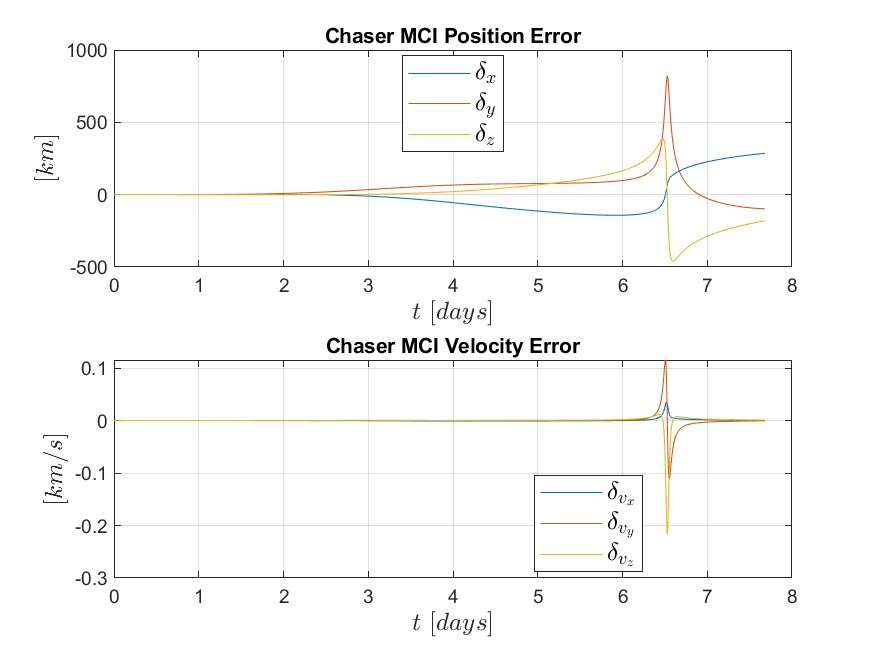
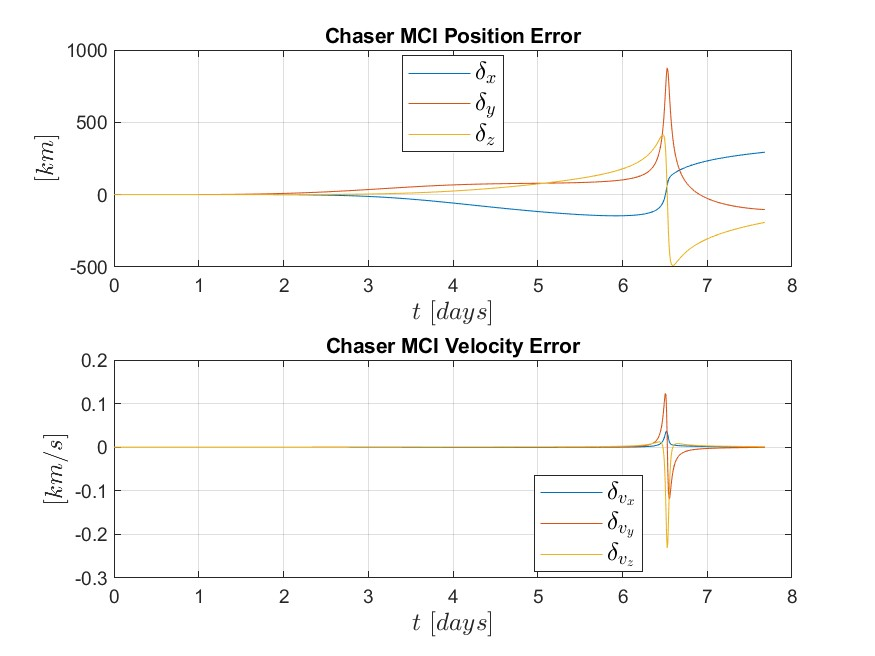
fixed initial conditions mistake

diff --git a/main.m b/main.m
@@ -18,7 +18,7 @@ addpath('Data/Materials/')
 % Define options for ode113()
 OptionsODE = odeset('RelTol', 1e-7, 'AbsTol', 1e-6, 'MaxStep', Inf);
 
-savechoice = 1;     % set as 1 to save a copy of the plots locally
+savechoice = 0;     % set as 1 to save a copy of the plots locally
 
 % Define Global Variables
 global DU TU Rm muM pbar log
@@ -38,7 +38,7 @@ Day = 86400;                                            % s
 
 
 % Define the n° of points for the Interpolation
-Npoints = 1000;
+Npoints = 10000;
 Nperiods = 1.2;         % to set the final time
 
 % Interpolate the Ephemeris and Retrieve Target's Initial State
@@ -52,7 +52,7 @@ RHO0_LVLH = [RHO0_LVLH(1:3)/DU; RHO0_LVLH(4:6)/DU*TU];
 
 RHO0_MCI = rhoLVLH2MCI(RHO0_LVLH, X0t_MCI, t0, EarthPPsMCI, SunPPsMCI, MoonPPsECI, muE, muS, deltaE, psiM, deltaM);
 
-X0c_MCI = X0t_MCI + [RHO0_MCI(1:3)/DU; RHO0_MCI(4:6)/DU*TU];
+X0c_MCI = X0t_MCI + RHO0_MCI;
 
 COE0c = rvPCI2COE(X0c_MCI', muM)';
 
